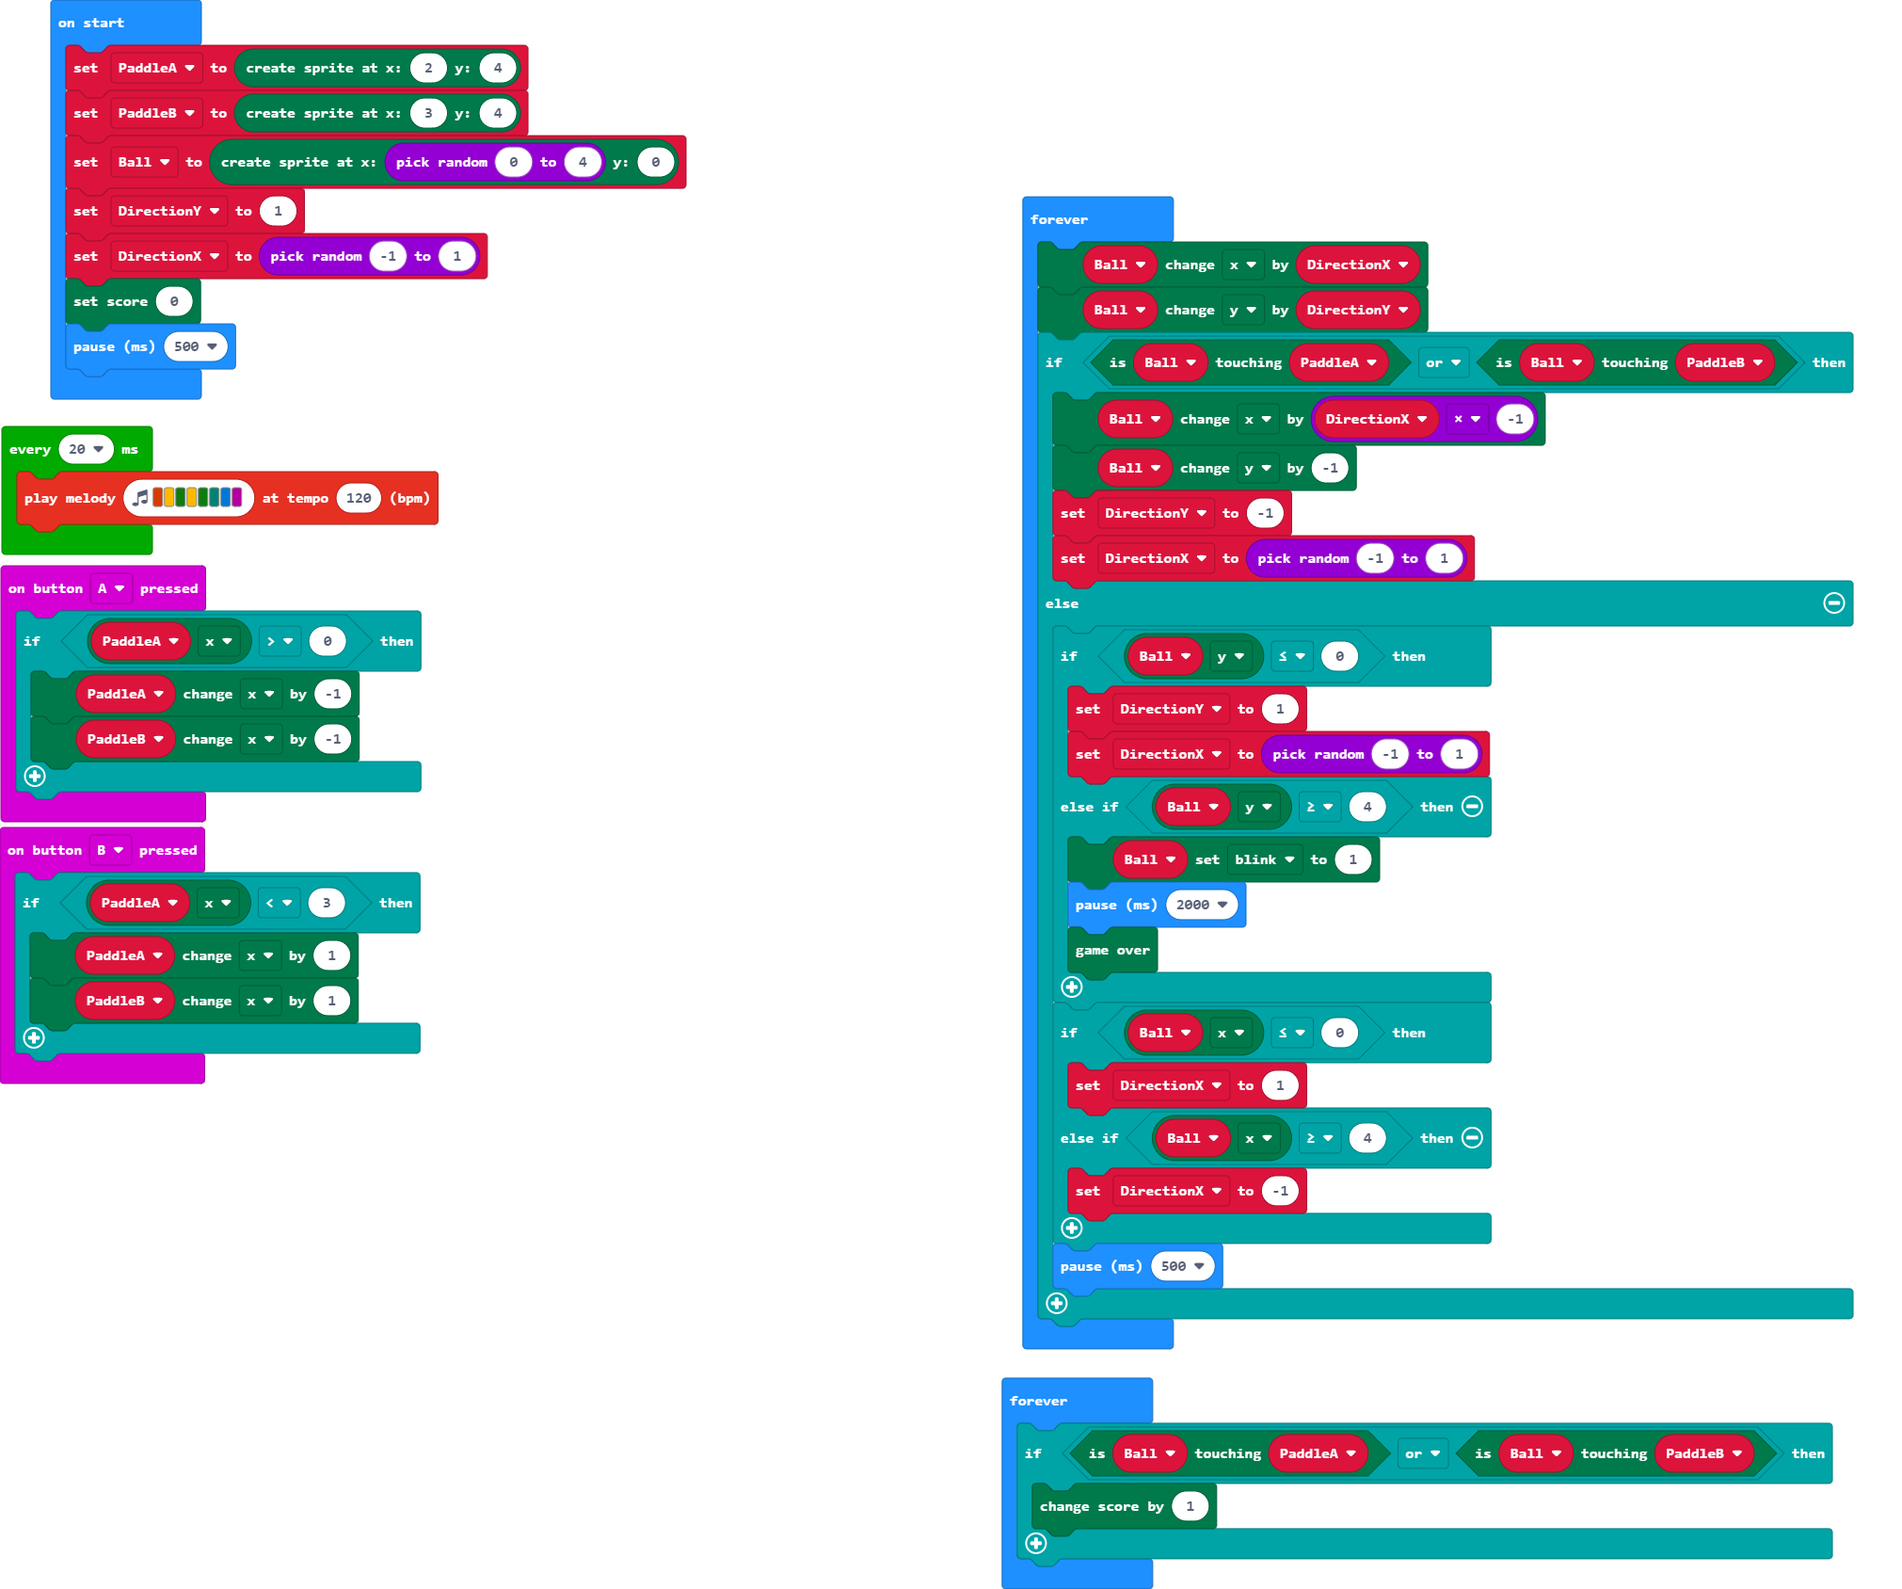
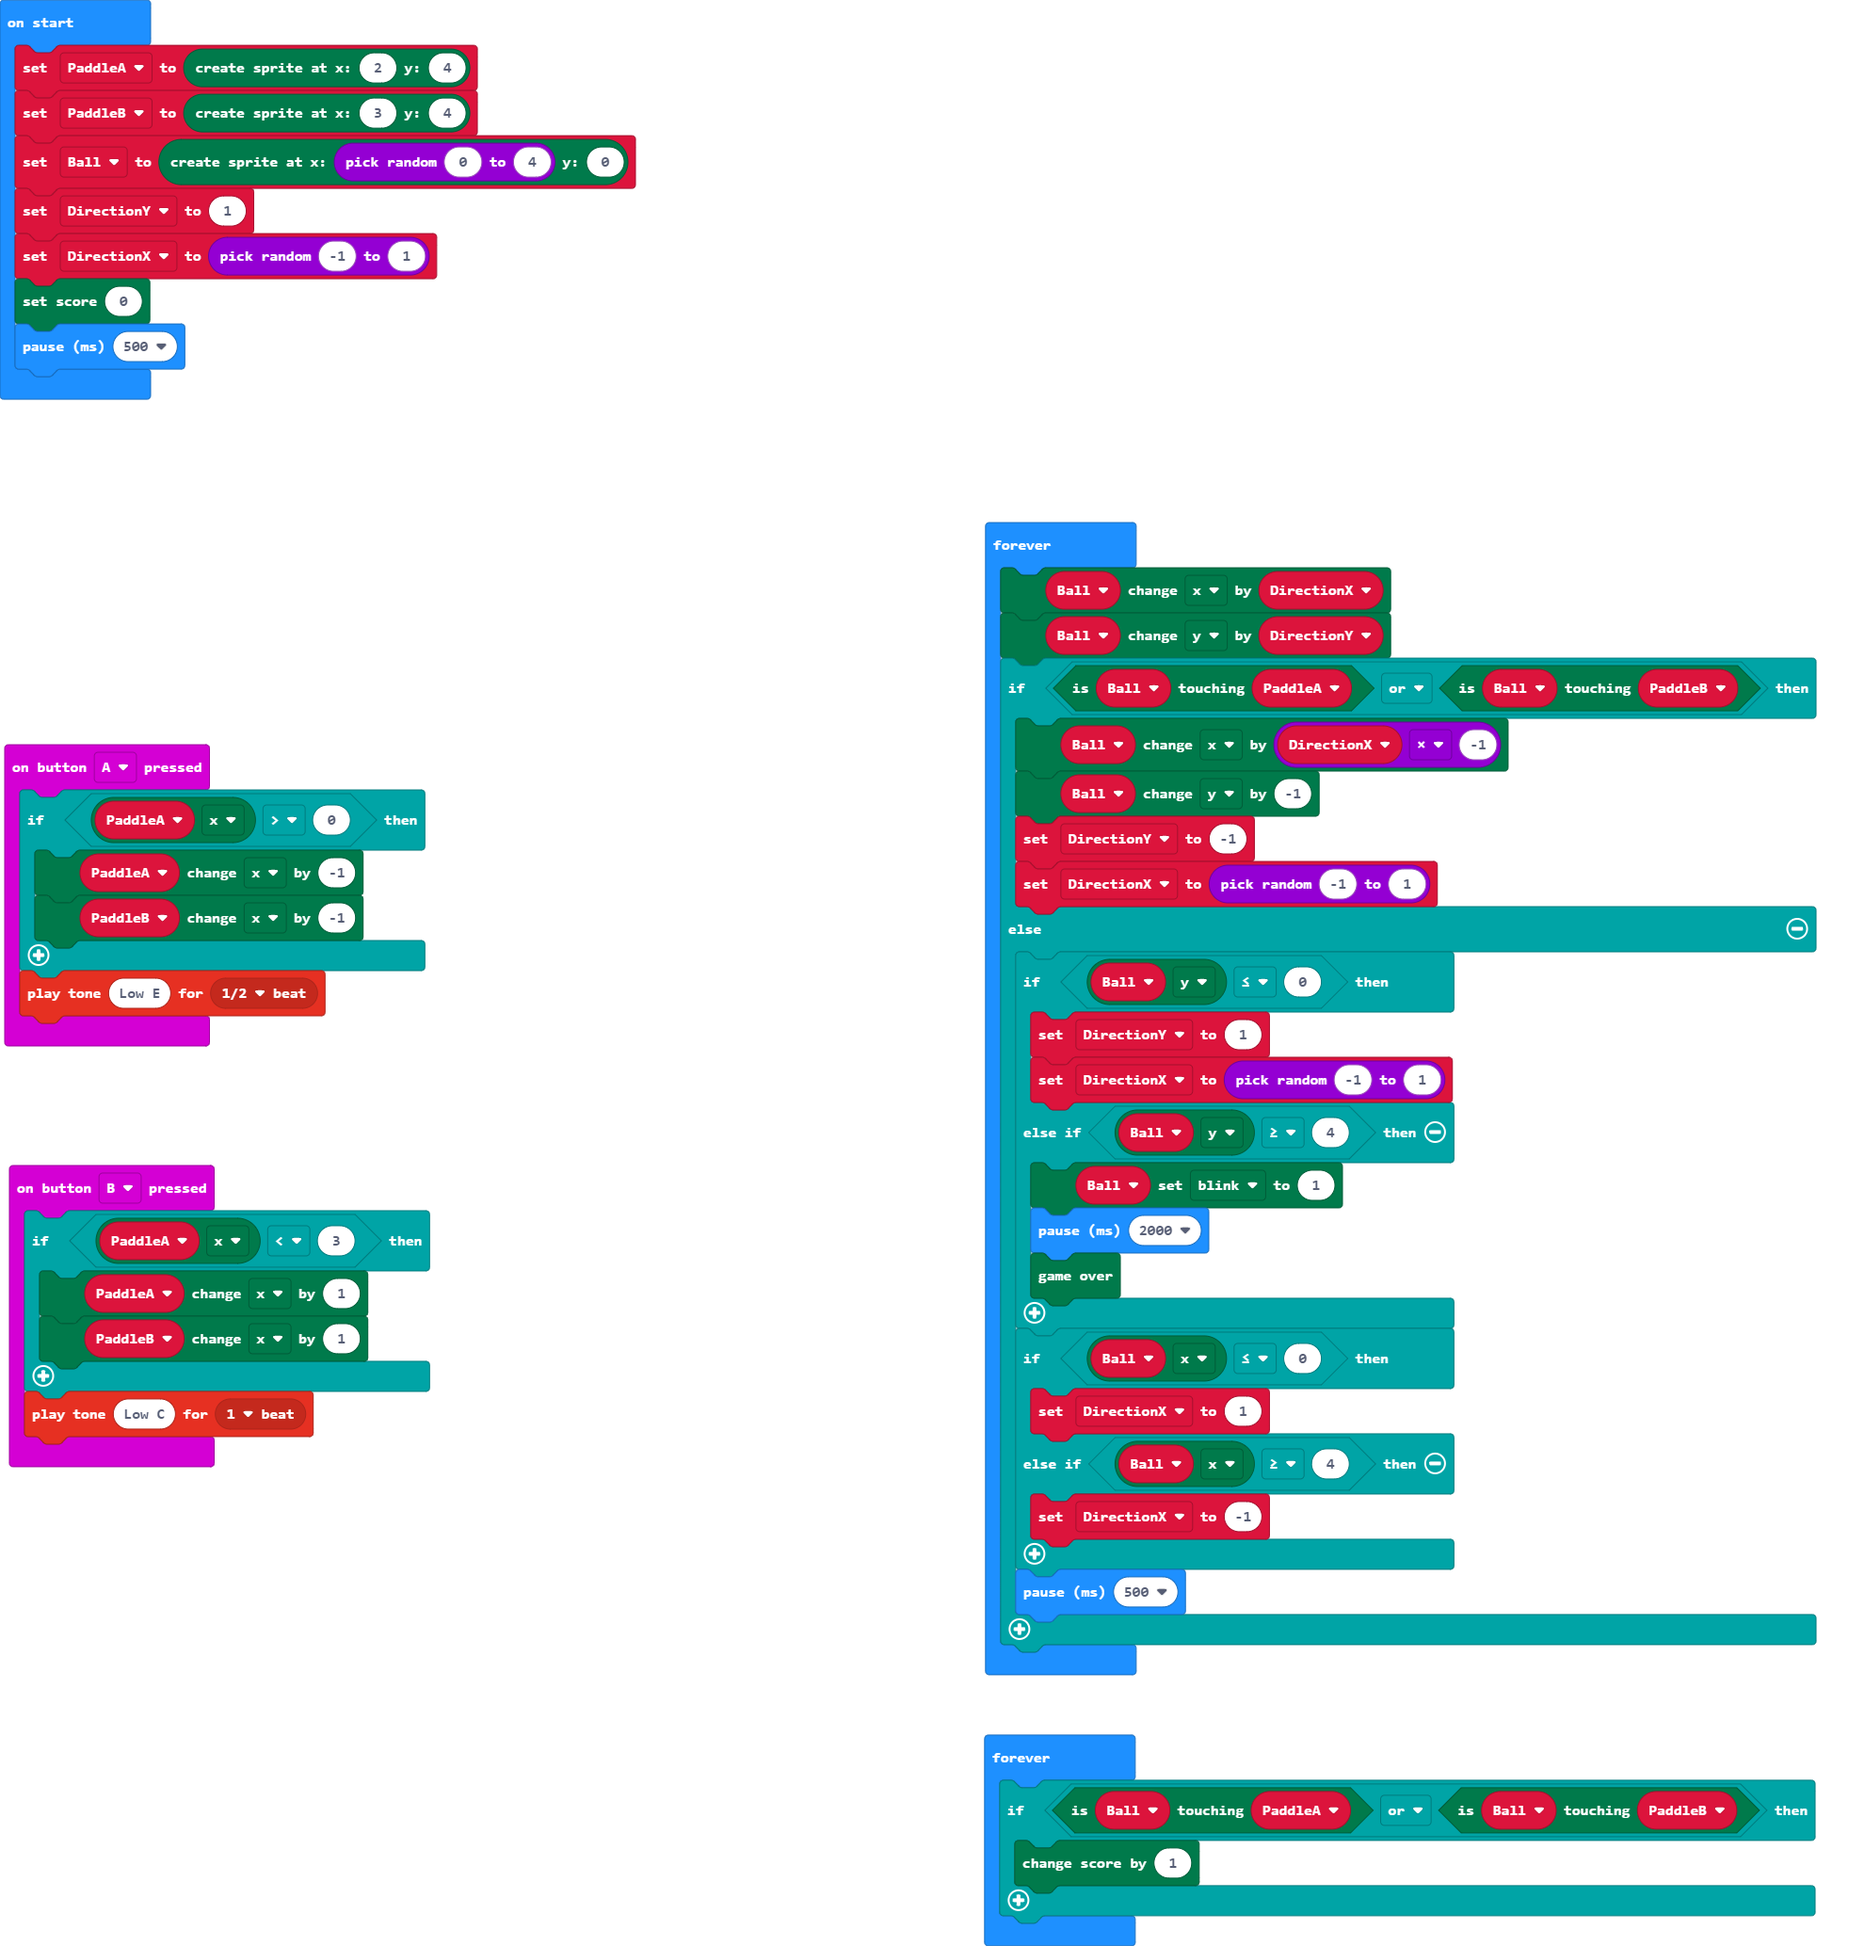
Update main.blocks, main.ts, main.py

diff --git a/main.ts b/main.ts
@@ -3,12 +3,14 @@ input.onButtonPressed(Button.A, function () {
         PaddleA.change(LedSpriteProperty.X, -1)
         PaddleB.change(LedSpriteProperty.X, -1)
     }
+    music.playTone(165, music.beat(BeatFraction.Half))
 })
 input.onButtonPressed(Button.B, function () {
     if (PaddleA.get(LedSpriteProperty.X) < 3) {
         PaddleA.change(LedSpriteProperty.X, 1)
         PaddleB.change(LedSpriteProperty.X, 1)
     }
+    music.playTone(131, music.beat(BeatFraction.Whole))
 })
 let PaddleB: game.LedSprite = null
 let PaddleA: game.LedSprite = null
@@ -19,9 +21,6 @@ let DirectionY = 1
 let DirectionX = randint(-1, 1)
 game.setScore(0)
 basic.pause(500)
-loops.everyInterval(20, function () {
-    music.playMelody("B A G A G F E C ", 120)
-})
 basic.forever(function () {
     Ball.change(LedSpriteProperty.X, DirectionX)
     Ball.change(LedSpriteProperty.Y, DirectionY)

diff --git a/main.py b/main.py
@@ -1,10 +1,12 @@
 def on_button_pressed_a():
+    music.play_tone(165, music.beat(BeatFraction.HALF))
     if PaddleA.get(LedSpriteProperty.X) > 0:
         PaddleA.change(LedSpriteProperty.X, -1)
         PaddleB.change(LedSpriteProperty.X, -1)
 input.on_button_pressed(Button.A, on_button_pressed_a)
 
 def on_button_pressed_b():
+    music.play_tone(554, music.beat(BeatFraction.HALF))
     if PaddleA.get(LedSpriteProperty.X) < 3:
         PaddleA.change(LedSpriteProperty.X, 1)
         PaddleB.change(LedSpriteProperty.X, 1)
@@ -20,11 +22,18 @@ DirectionX = randint(-1, 1)
 game.set_score(0)
 basic.pause(500)
 
-def on_every_interval():
-    music.play_melody("B A G A G F E C ", 120)
-loops.every_interval(20, on_every_interval)
-
 def on_forever():
+    music.play_melody("A F E F D G E F ", 120)
+    music.play_melody("B G F G E A F G ", 120)
+    music.play_melody("C5 A G A F B G A ", 120)
+    music.play_melody("C B A B G C5 A B ", 120)
+    music.play_melody("D C5 B C5 A C B C5 ", 120)
+    music.play_melody("E C C5 C B D C5 C ", 120)
+    music.play_melody("F D C D C5 E C D ", 120)
+    music.play_melody("G E D E C F D E ", 120)
+basic.forever(on_forever)
+
+def on_forever2():
     global DirectionY, DirectionX
     Ball.change(LedSpriteProperty.X, DirectionX)
     Ball.change(LedSpriteProperty.Y, DirectionY)
@@ -46,9 +55,9 @@ def on_forever():
         elif Ball.get(LedSpriteProperty.X) >= 4:
             DirectionX = -1
         basic.pause(500)
-basic.forever(on_forever)
+basic.forever(on_forever2)
 
-def on_forever2():
+def on_forever3():
     if Ball.is_touching(PaddleA) or Ball.is_touching(PaddleB):
         game.add_score(1)
-basic.forever(on_forever2)
+basic.forever(on_forever3)
